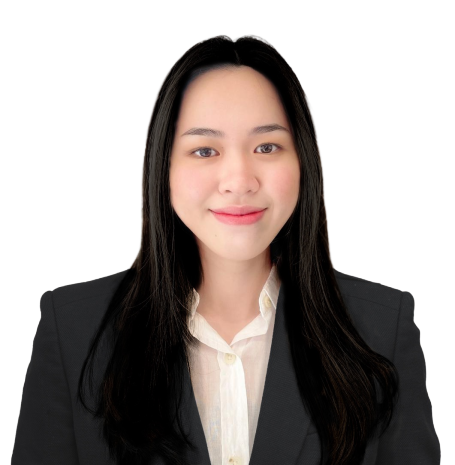
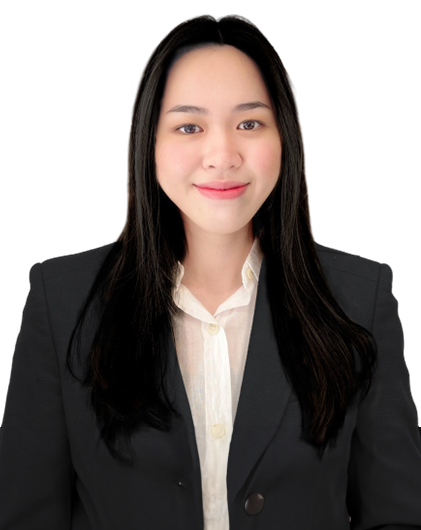
update foto profile secretary corporate

diff --git a/src/components/about/menu/menu-struktur-organisasi/sekretarisperusahaan/SekretarisPerusahaanEn.jsx b/src/components/about/menu/menu-struktur-organisasi/sekretarisperusahaan/SekretarisPerusahaanEn.jsx
@@ -1,7 +1,7 @@
 import React, { useEffect } from 'react';
 import AOS from 'aos';
 import 'aos/dist/aos.css';
-import Maureen from '../../../../../assets/fotoprofile/maureen-new.png';
+import Maureen from '../../../../../assets/fotoprofile/maureen.png';
 import './sekretarisperusahaan.scss';
 
 const profiles = [

diff --git a/src/components/about/menu/menu-struktur-organisasi/sekretarisperusahaan/SekretarisPerusahaanId.jsx b/src/components/about/menu/menu-struktur-organisasi/sekretarisperusahaan/SekretarisPerusahaanId.jsx
@@ -1,7 +1,7 @@
 import React, { useEffect } from 'react';
 import AOS from 'aos';
 import 'aos/dist/aos.css';
-import Maureen from '../../../../../assets/fotoprofile/maureen-new.png';
+import Maureen from '../../../../../assets/fotoprofile/maureen.png';
 import './sekretarisperusahaan.scss';
 
 const profiles = [
